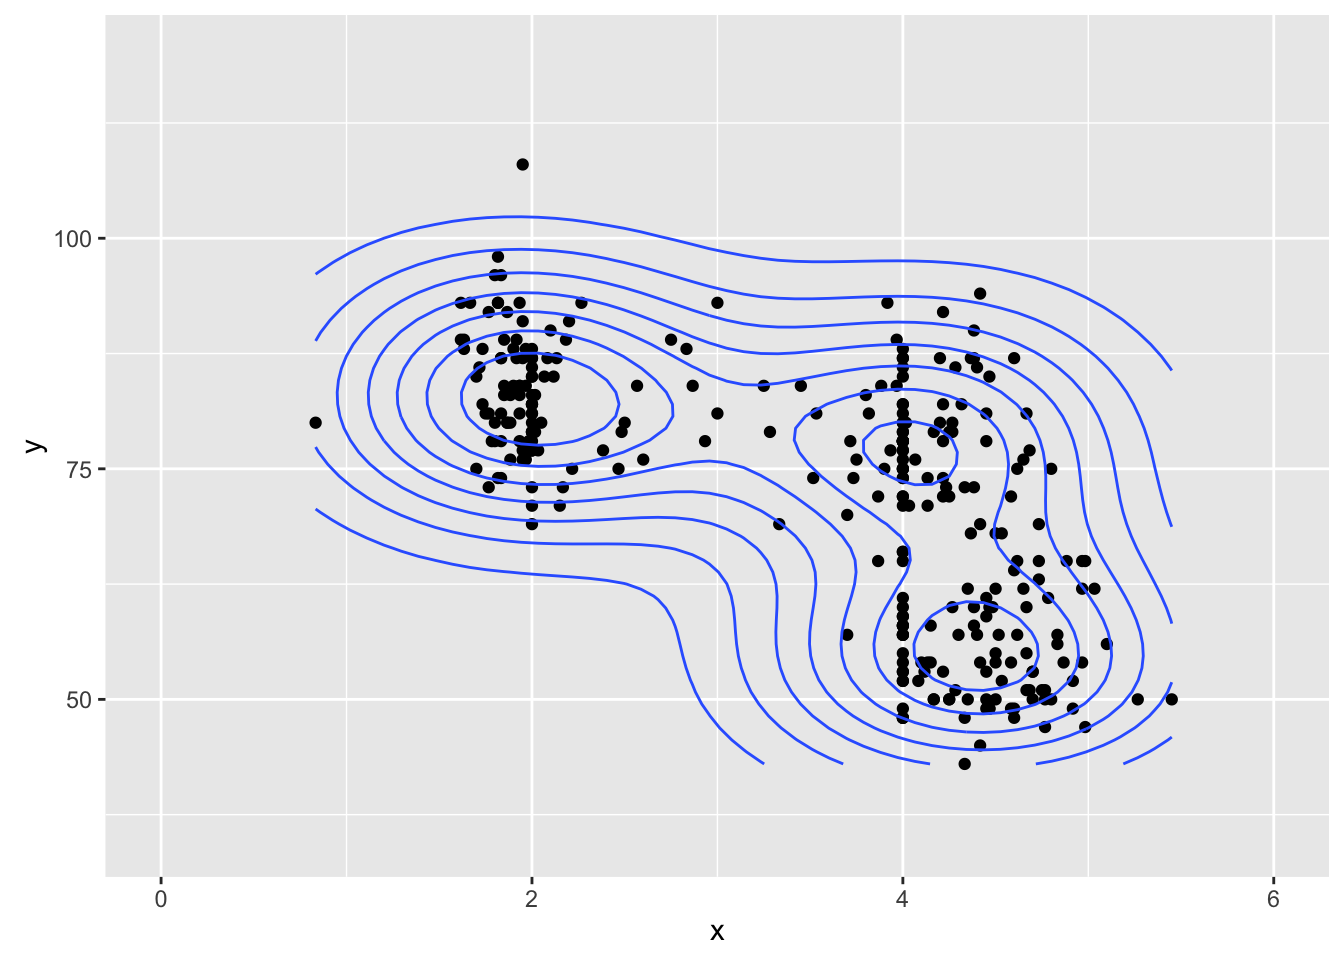
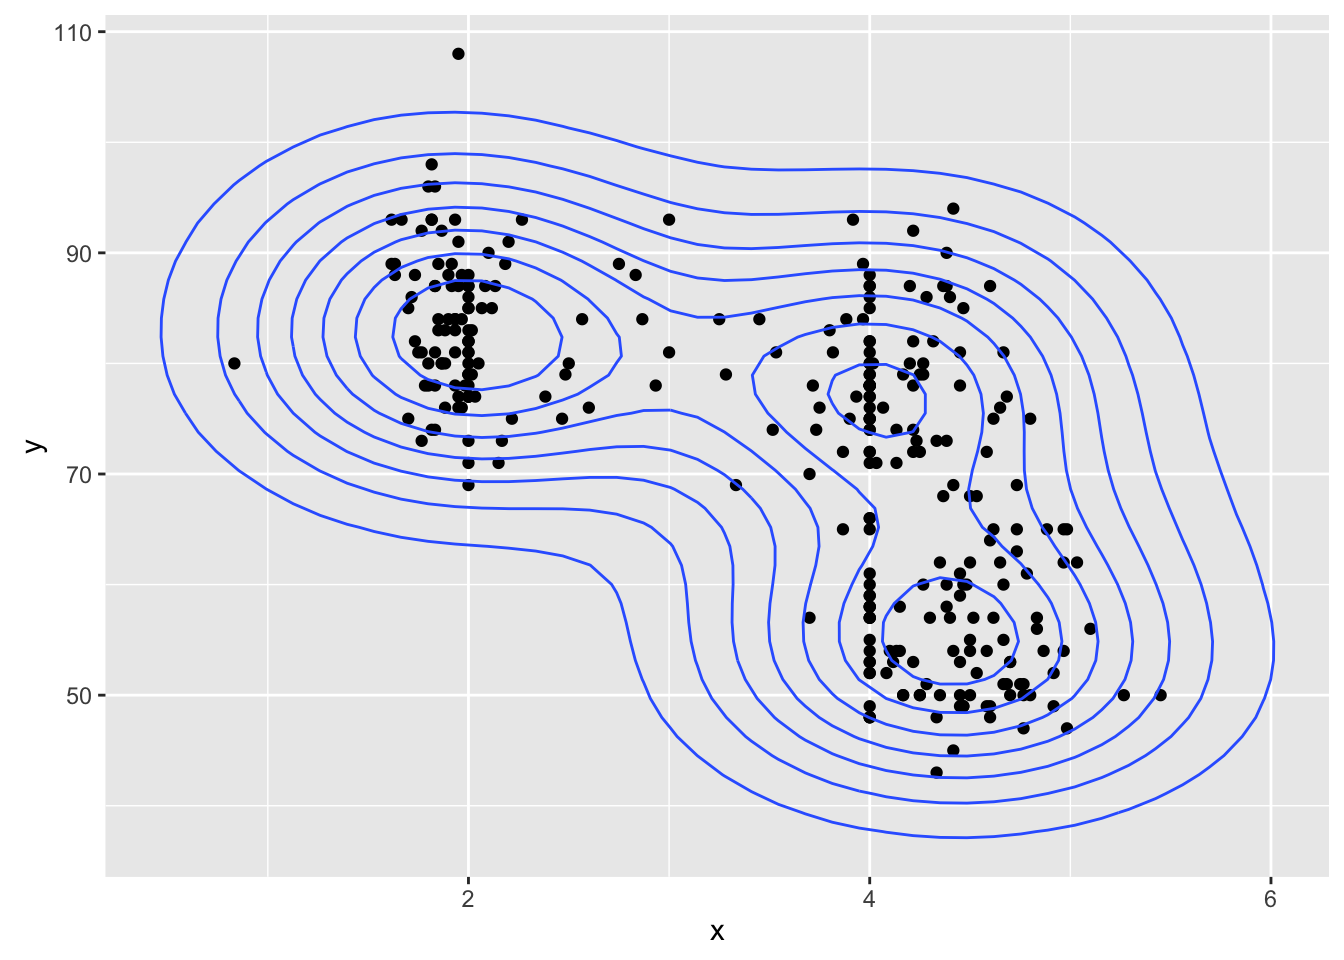
finished 2D

diff --git a/README.md b/README.md
@@ -3,7 +3,7 @@
 
 A package containing additional geoms, coords and stats for the revamped (late 2015) version of ggplot2.
 
-The first two forays into this brave, new `ggplot2` world are *splines*! and being able to use the (much better) `KernSmooth::bkde` for density plots. Support for `KernSmooth::bkde2D` is a WIP.
+The first three forays into this brave, new `ggplot2` world are *splines*! and being able to use the (much better) `KernSmooth::bkde` and `KernSmooth::bkde2D` for density plots.
 
 *NOTE*
 
@@ -15,11 +15,12 @@ The following functions are implemented:
 -   `stat_xspline` : Connect control points/observations with an X-spline
 -   `geom_bkde` : Display a smooth density estimate (uses `KernSmooth::bkde`)
 -   `stat_bkde` : Display a smooth density estimate (uses `KernSmooth::bkde`)
--   `geom_bkde2d` : Contours from a 2d density estimate. (uses `KernSmooth::bkde2D`) **WIP**
--   `stat_bkde2d` : Contours from a 2d density estimate. (uses `KernSmooth::bkde2D`) **WIP**
+-   `geom_bkde2d` : Contours from a 2d density estimate. (uses `KernSmooth::bkde2D`)
+-   `stat_bkde2d` : Contours from a 2d density estimate. (uses `KernSmooth::bkde2D`)
 
 ### News
 
+-   Version 0.0.2.9002 released - working 2D density plots
 -   Version 0.0.2.9000 released
 
 ### Installation
@@ -38,7 +39,7 @@ library(ggalt)
 
 # current verison
 packageVersion("ggalt")
-#> [1] '0.0.2.9000'
+#> [1] '0.0.2.9002'
 
 set.seed(1492)
 dat <- data.frame(x=c(1:10, 1:10, 1:10),
@@ -151,8 +152,7 @@ geyser_dat <- data.frame(x=geyser$duration, y=geyser$waiting)
 
 ggplot(geyser_dat, aes(x, y)) +
   geom_point() +
-  geom_bkde2d(bandwidth=c(0.7, 7)) +
-  xlim(0, 6) + ylim(35, 120)
+  geom_bkde2d(bandwidth=c(0.7, 7))
 ```
 
 <img src="README_figs/README-unnamed-chunk-4-11.png" title="" alt="" width="672" />
@@ -161,8 +161,7 @@ ggplot(geyser_dat, aes(x, y)) +
 
 ggplot(geyser_dat, aes(x, y)) +
   geom_point() +
-  stat_bkde2d(bandwidth=c(0.7, 7)) +
-  xlim(0, 6) + ylim(35, 120)
+  stat_bkde2d(bandwidth=c(0.7, 7))
 ```
 
 <img src="README_figs/README-unnamed-chunk-4-12.png" title="" alt="" width="672" />
@@ -174,7 +173,7 @@ library(ggalt)
 library(testthat)
 
 date()
-#> [1] "Tue Sep  8 18:56:26 2015"
+#> [1] "Tue Sep  8 21:13:04 2015"
 
 test_dir("tests/")
 #> testthat results ========================================================================================================
